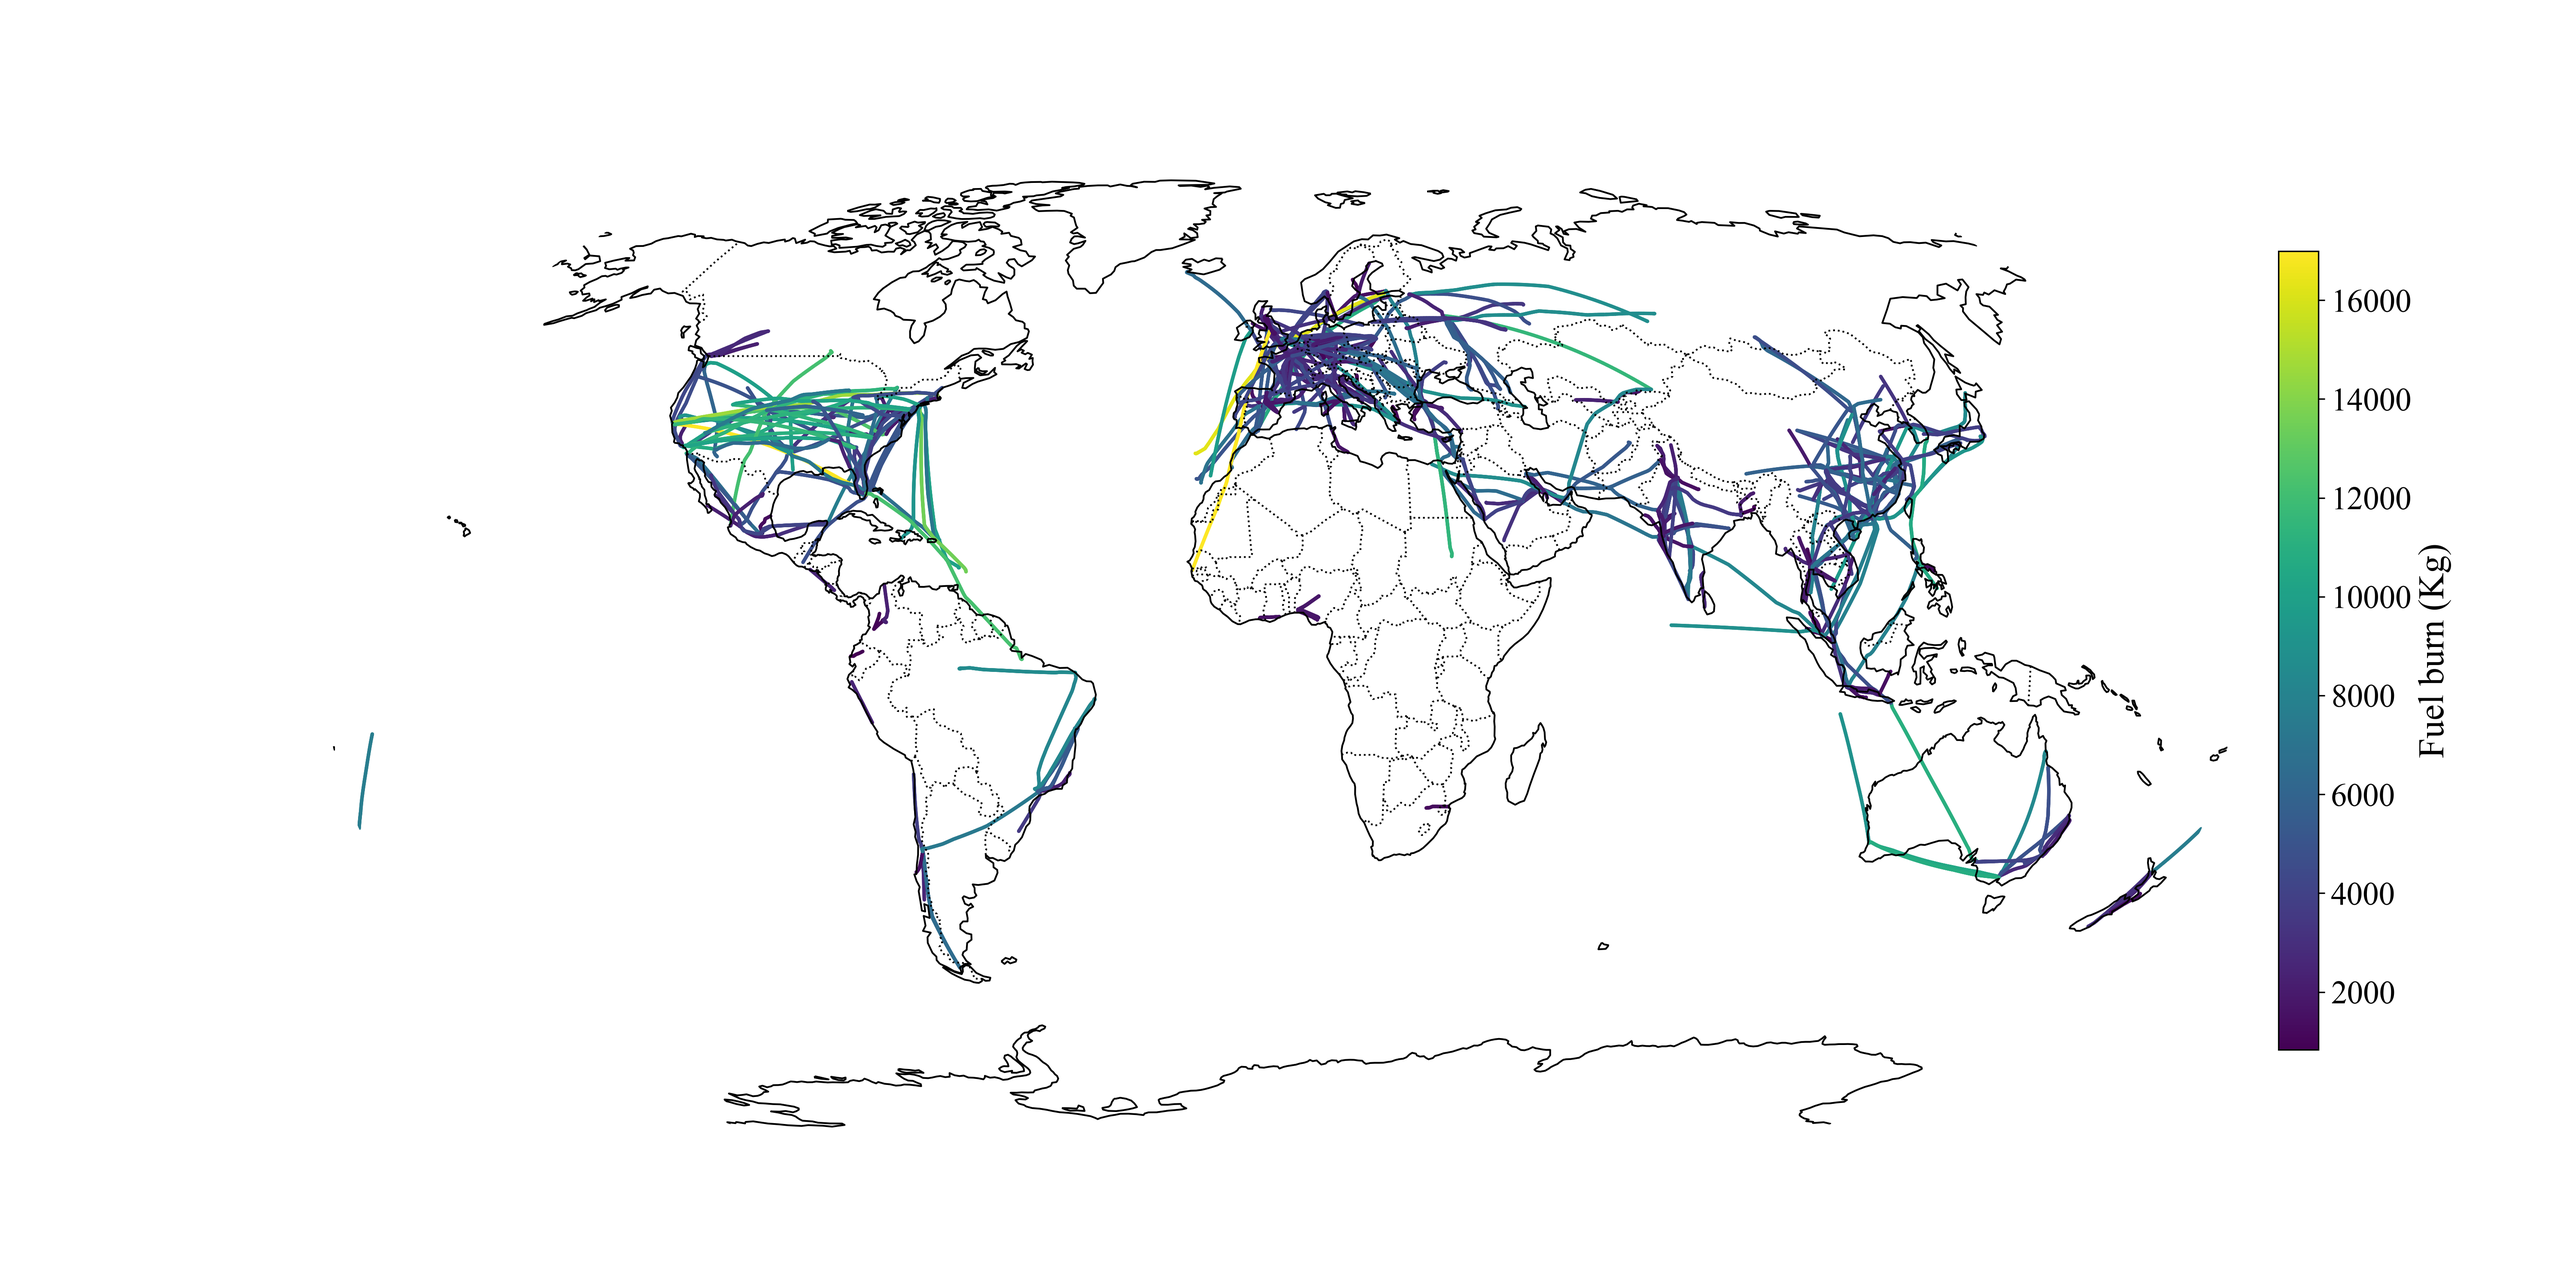
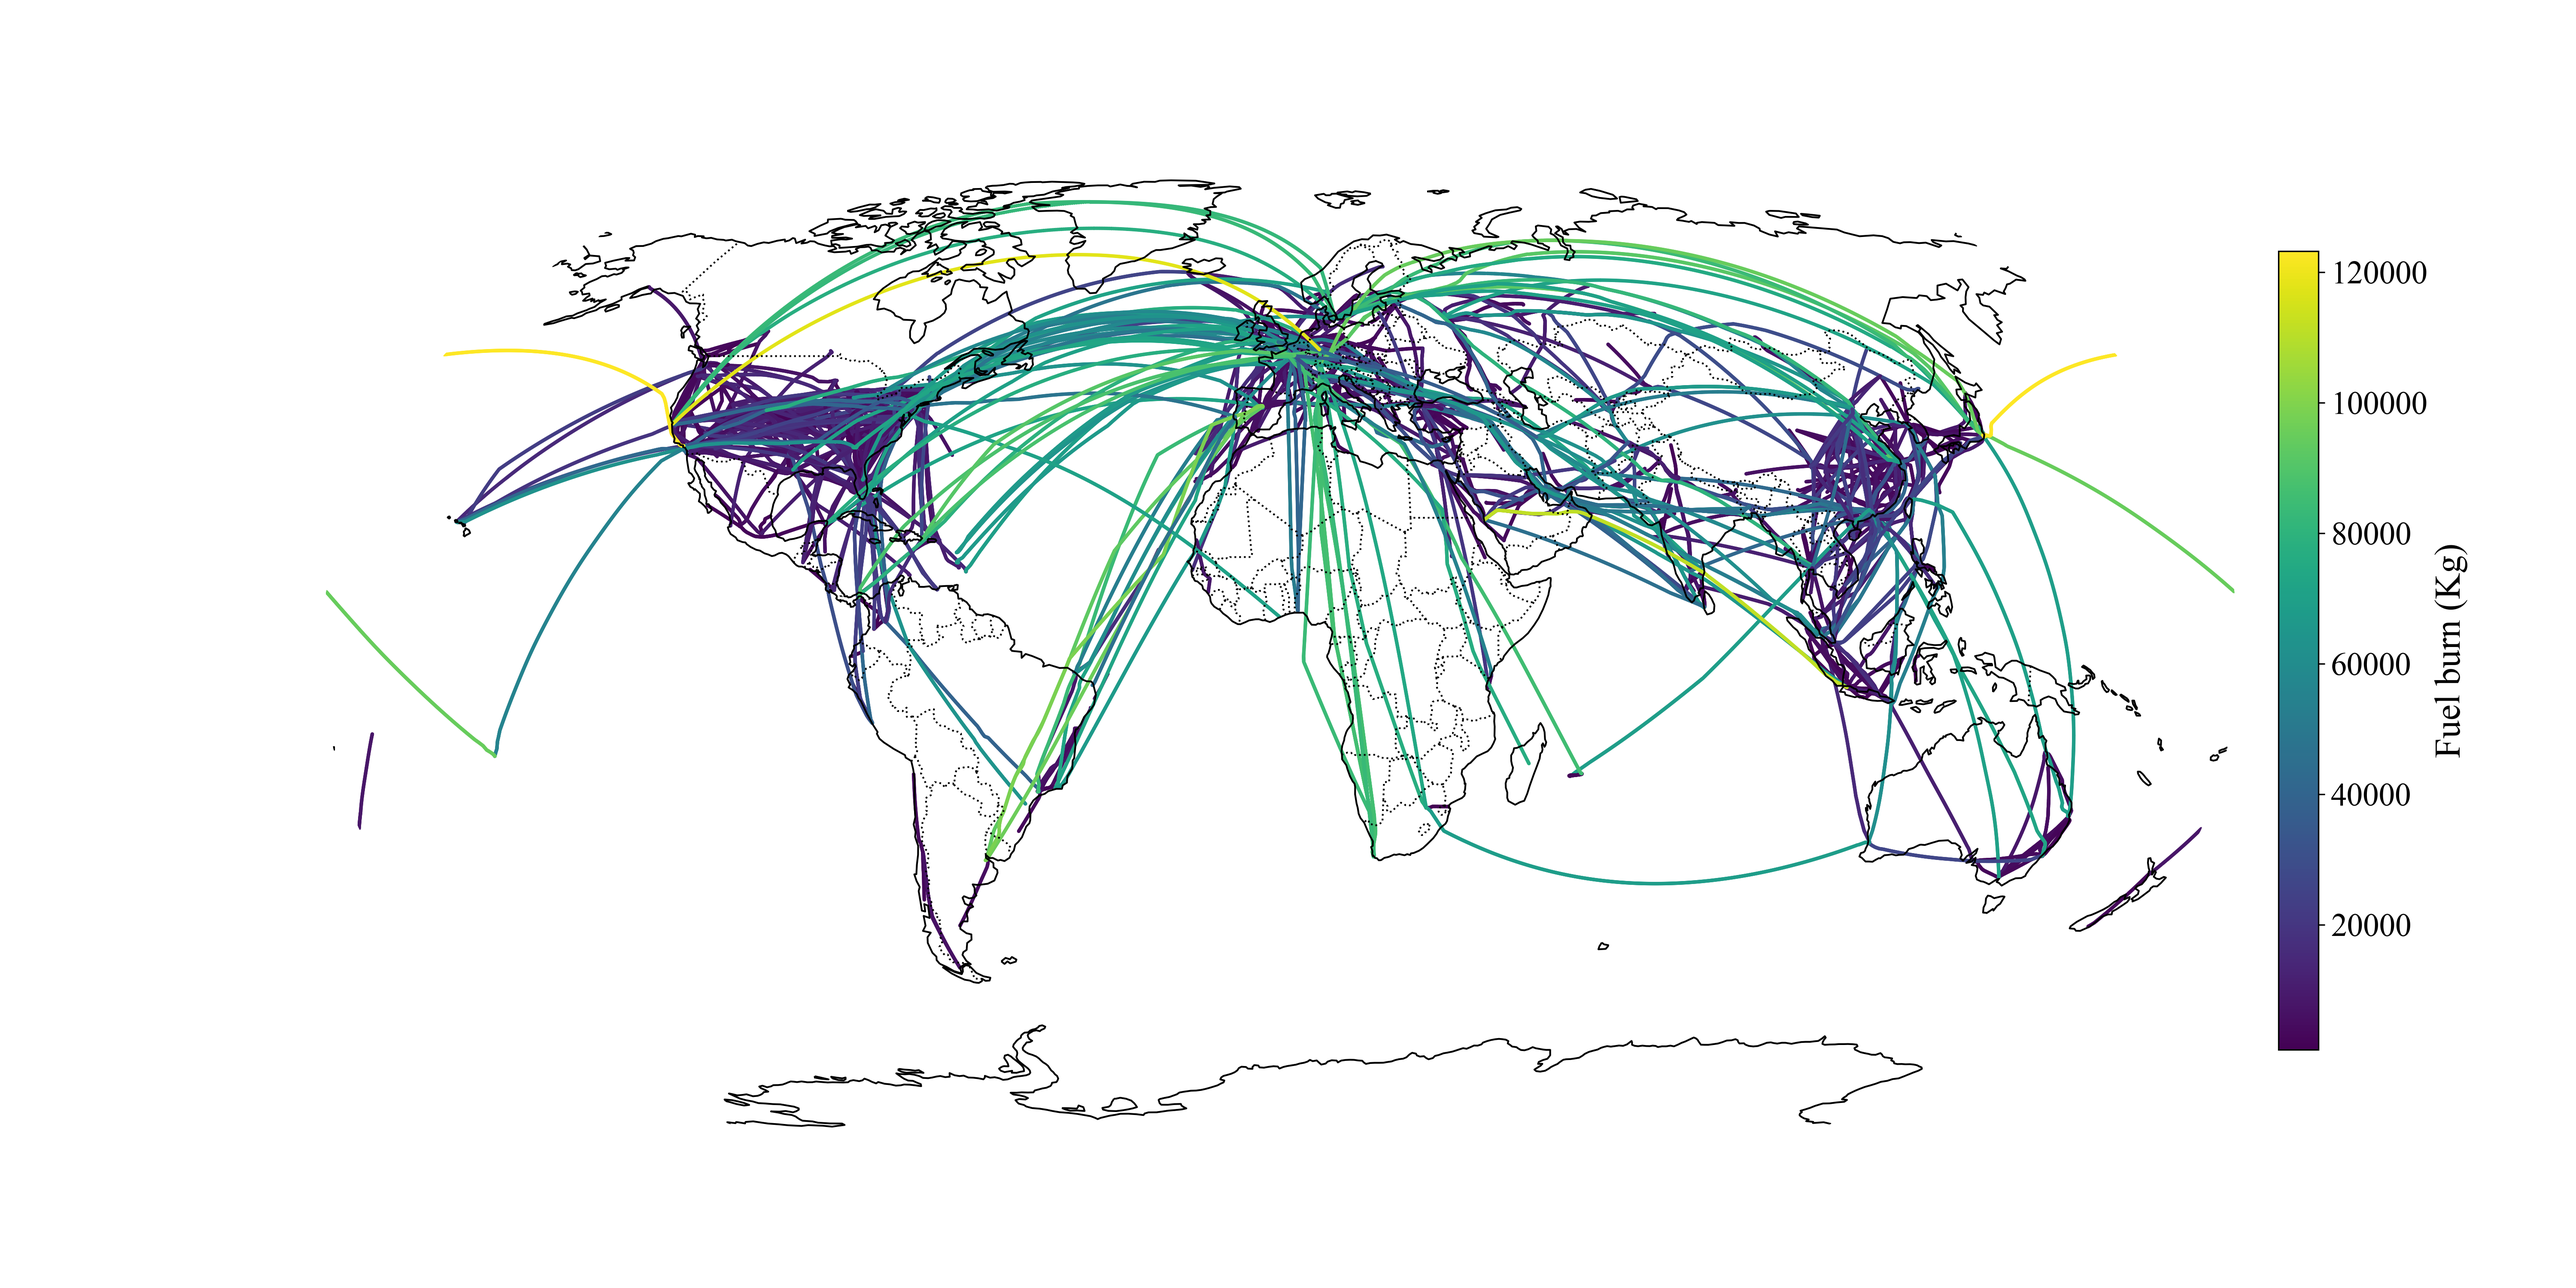
emissions calculations

diff --git a/workbench/Google_TIM/Evaluation/Imperial/utils.py b/workbench/Google_TIM/Evaluation/Imperial/utils.py
@@ -1,5 +1,5 @@
 import pandas as pd
-from openap import prop, FuelFlow
+from openap import prop, FuelFlow, Emission
 import numpy as np
 import sys
 from datetime import datetime
@@ -51,6 +51,7 @@ def compute_emissions(trajectory, actype, payload_factor, fuel_factor, debug):
 
     # Define fuel flow object with default engine (TODO add specifici with Cirium)
     ff = FuelFlow(actype)
+    emission = Emission(actype)
     
     # Get the mission weight (Mass) (fuel + payload + OEW)
     Mass_ini, MTOW, MLW, OEW, Trip_Fuel, Reserve_Fuel, Payload_weight = computute_mission_weight(actype, payload_factor, fuel_factor, False)
@@ -77,8 +78,17 @@ def compute_emissions(trajectory, actype, payload_factor, fuel_factor, debug):
     # Determine the number of segments
     n = len(time_deltas)
 
-    # Initialize a NumPy array of zeros with size n to store fuelflow*dt values
+    # Initialize an array of zeros with size n to store fuelflow*dt values
     fuel_consumption_array = np.zeros(n)
+
+    # Initialize emissions array
+    CO2_emissions_array = np.zeros(n)
+    H2O_emissions_array = np.zeros(n)
+    Nox_emissions_array = np.zeros(n)
+    CO_emissions_array = np.zeros(n)
+    HC_emissions_array = np.zeros(n)
+
+
 
     for i, (dt, tas, alt, pa) in enumerate(zip(time_deltas, trajectory.true_airspeed_knots, trajectory.altitude_ft, path_angles)):
         if None in (dt, tas, alt, pa):
@@ -110,6 +120,14 @@ def compute_emissions(trajectory, actype, payload_factor, fuel_factor, debug):
         # Store the product of fuelflow and dt directly in the preallocated array
         fuel_consumption_array[i] = fuelflow * dt
 
+        # Compute emissions
+        CO2_emissions_array[i] = emission.co2(fuelflow)
+        H2O_emissions_array[i] = emission.h2o(fuelflow)
+        Nox_emissions_array[i] = emission.nox(fuelflow)
+        CO_emissions_array[i] = emission.co(fuelflow)
+        HC_emissions_array[i] = HC = emission.hc(fuelflow)
+        
+    # Compute total fuel burn over entire mission
     fuelburn = Mass_ini - mass
     # Ensure that the final mass is less than or equal to design MLW
     if (mass > MLW):
@@ -130,17 +148,17 @@ def compute_emissions(trajectory, actype, payload_factor, fuel_factor, debug):
 
 def fallback(airframe):
     if airframe == "E195":
-        print("E195 not supported, selecting A319 as fallback airframe \n")
-        alt_airframe = "A319"
+        print("E195 not supported, selecting B737 as fallback airframe \n")
+        alt_airframe = "B737"
 
     if airframe == "A20N":
-        print("A20N not supported, selecting A320 as fallback airframe \n")
-        alt_airframe = "A320"
+        print("A20N not supported, selecting A319 as fallback airframe \n")
+        alt_airframe = "A319"
         return alt_airframe
 
     if airframe == "B734":
-        print("B734 not supported, selecting B737 as fallback airframe \n")
-        alt_airframe = "B737"
+        print("B734 not supported, selecting B738 as fallback airframe \n")
+        alt_airframe = "B738"
         return alt_airframe
     
     if airframe == "B772":
@@ -252,6 +270,9 @@ def getfuelBurn(actype, payload_factor, trajectory,MTOW, MFC, MLW, OEW, fuel_fac
     # Define fuel flow object with default engine (TODO add specific engine with Cirium)
     ff = FuelFlow(actype)
 
+    # Define emissions object
+    emission = Emission(actype)
+
     # Fuel weight breakdown
     Trip_Fuel = MFC * fuel_factor
 
@@ -287,6 +308,13 @@ def getfuelBurn(actype, payload_factor, trajectory,MTOW, MFC, MLW, OEW, fuel_fac
     # Initialize a NumPy array of zeros with size n to store fuelflow*dt values
     fuel_consumption_array = np.zeros(n)
 
+    # Initialize emissions array
+    CO2_emissions_array = np.zeros(n)
+    H2O_emissions_array = np.zeros(n)
+    Nox_emissions_array = np.zeros(n)
+    CO_emissions_array = np.zeros(n)
+    HC_emissions_array = np.zeros(n)
+
     for i, (dt, tas, alt, pa) in enumerate(zip(time_deltas, trajectory.true_airspeed_knots, trajectory.altitude_ft, path_angles)):
             
         if None in (dt, tas, alt, pa):
@@ -310,6 +338,13 @@ def getfuelBurn(actype, payload_factor, trajectory,MTOW, MFC, MLW, OEW, fuel_fac
 
         # If all checks passed, append the fuel_consumption array     
         fuel_consumption_array[i] = fuelflow * dt
+
+        # Compute emissions
+        CO2_emissions_array[i] = emission.co2(fuelflow)
+        H2O_emissions_array[i] = emission.h2o(fuelflow)
+        Nox_emissions_array[i] = emission.nox(fuelflow, tas, alt)
+        CO_emissions_array[i] = emission.co(fuelflow, tas, alt)
+        HC_emissions_array[i] = HC = emission.hc(fuelflow, tas, alt)
 
     # Fuel burn Caclulation ends
 

diff --git a/workbench/Google_TIM/Evaluation/Imperial/main.py b/workbench/Google_TIM/Evaluation/Imperial/main.py
@@ -35,7 +35,7 @@ Target_id = "190114-72410-AFL106"
 excluded_flight_ids = ["190110-93704-ARG1844", "190114-77651-CES201",  "190111-69033-GCR7939", "190113-51219-CRL953", "190107-99735-ARG1141", "190115-24252-AEA023", "190112-45597-QFA107", "190114-72410-AFL106"]
 
 debug = False
-Limit = 500
+Limit = 4000
 
 
 # Payload factor
@@ -98,13 +98,31 @@ if plot_fuel_burn:
                 #    continue  # Something is wrong with A332, skip for now.
 
                 if airframe == 'A359':
-                    continue  # A359 not available
+                    continue  # Kinematic model not available
+
+                if airframe == 'B772':
+                    continue  #  Kinematic model not available
+
+                if airframe == 'A20N':
+                    continue  #  Kinematic model not available
+
+                if airframe == 'A21N':
+                    continue  #  Kinematic model not available
+
+                if airframe == 'B734':
+                    continue  #  Kinematic model not available
 
                 if airframe == 'B763':
-                    continue  # B763 Polar not available
+                    continue  #  Drag polar not available
 
-                #if airframe == 'B772':
-                #    continue  # B763 Polar not available
+                if airframe == 'E170':
+                    continue  #  Drag polar not available
+
+                if airframe == 'E195':
+                    continue  #  Kinematic model not available
+
+                if airframe == 'E75L':
+                    continue  #  Kinematic model not available
 
                 # Select matching waypoints data
                 matching_rows = df_wyp[df_wyp['flight_id'] == flight_id]
@@ -117,10 +135,10 @@ if plot_fuel_burn:
                     print("---------------------------------------------------------------------")
                     print("Current airframe: ", airframe)
                     print("Global iter: ", global_iter)
-                    airFrame = utl.fallback(airframe)
+                    #airFrame = utl.fallback(airframe)
 
                
-                    fuel_burn = utl.compute_emissions_beta(processed_df, airFrame, payload_factor, debug)       
+                    fuel_burn = utl.compute_emissions_beta(processed_df, airframe, payload_factor, debug)       
 
 
                     # Add the computed fuel burn to the DataFrame
